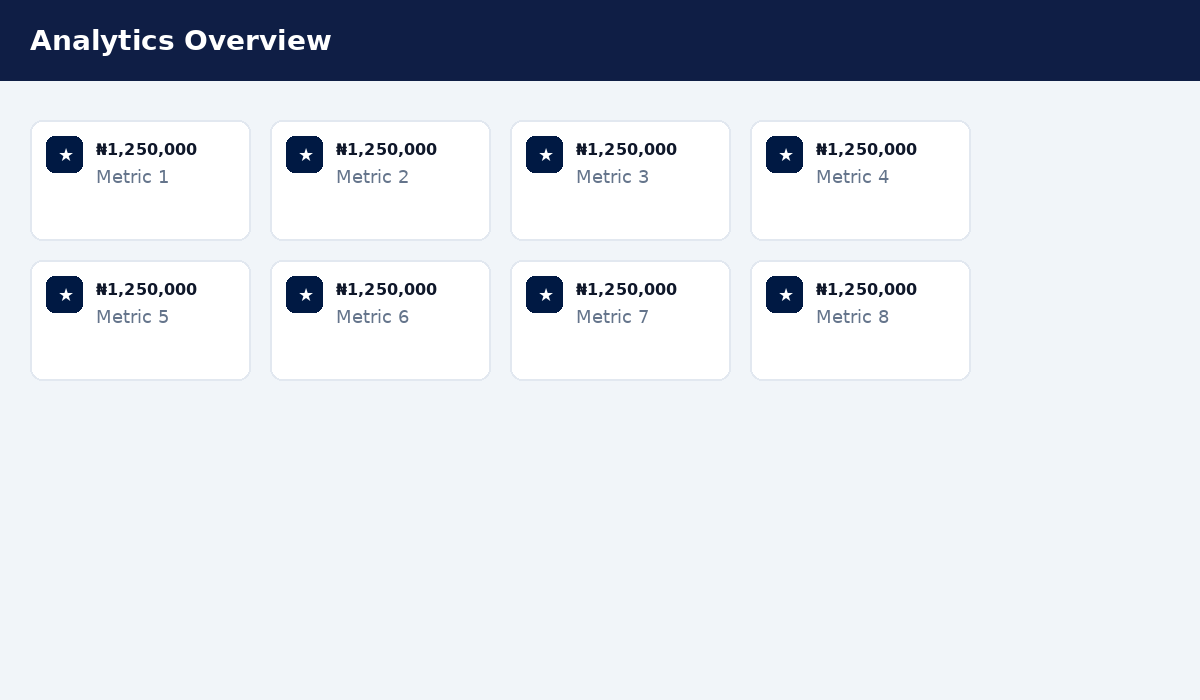
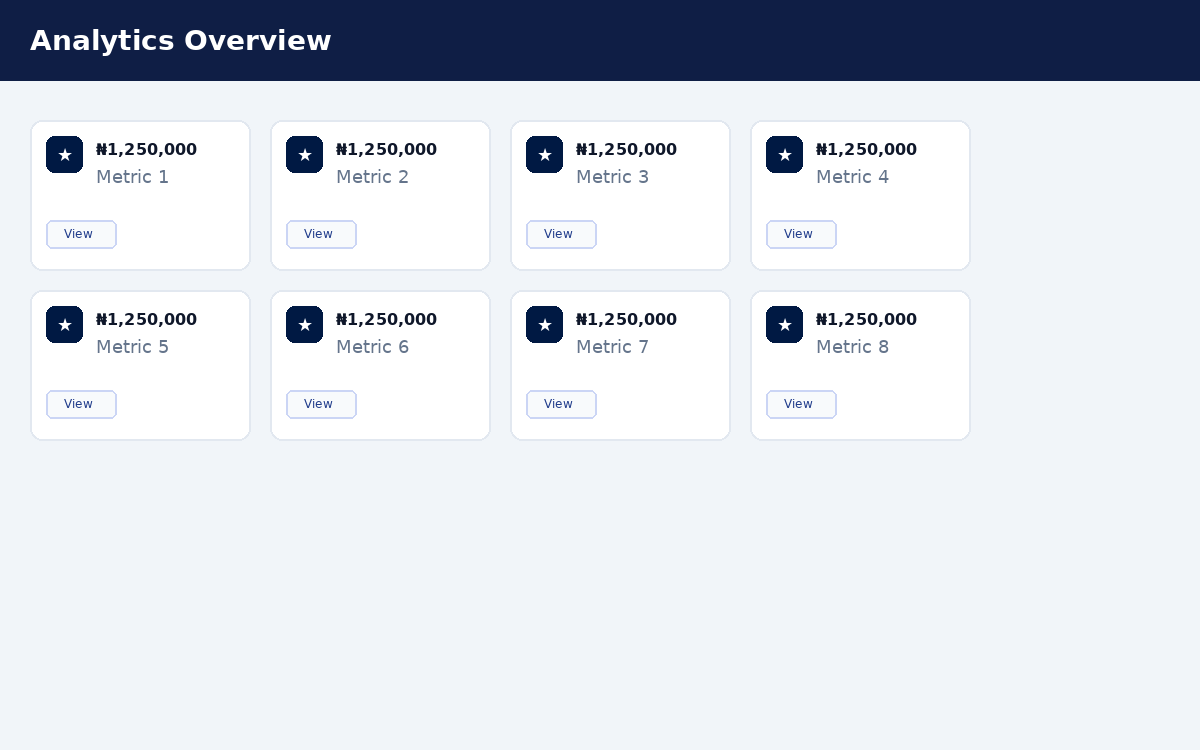
Add analytics card view buttons

diff --git a/templates/pages/analytics.php b/templates/pages/analytics.php
@@ -33,6 +33,26 @@ if (!empty($range['start_display']) && !empty($range['end_display'])) {
     $range_display = $range['end_display'];
 }
 
+$detail_range_args = array();
+if (!empty($range['start_date'])) {
+    $detail_range_args['start'] = $range['start_date'];
+}
+if (!empty($range['end_date'])) {
+    $detail_range_args['end'] = $range['end_date'];
+}
+$detail_date = !empty($range['end_date']) ? $range['end_date'] : (!empty($range['start_date']) ? $range['start_date'] : current_time('Y-m-d'));
+$resolve_page_url = function($slug, $fallback) {
+    $page = get_page_by_path($slug);
+    return $page ? get_permalink($page->ID) : home_url($fallback);
+};
+$order_history_url = add_query_arg($detail_range_args, $resolve_page_url('cfi-order-history', '/order-history/'));
+$transfer_history_url = add_query_arg($detail_range_args, $resolve_page_url('cfi-transfer-history', '/transfer-history/'));
+$expenses_history_url = add_query_arg($detail_range_args, $resolve_page_url('cfi-expenses-history', '/expenses-history/'));
+$cashout_history_url = add_query_arg($detail_range_args, $resolve_page_url('cfi-cash-out-history', '/cash-out-history/'));
+$debtors_history_url = add_query_arg($detail_range_args, $resolve_page_url('cfi-debtors-history', '/debtors-history/'));
+$order_summary_url = add_query_arg(array('date' => $detail_date), $resolve_page_url('cfi-order-product-summary', '/order-product-summary/'));
+$credit_summary_url = add_query_arg(array('date' => $detail_date), $resolve_page_url('cfi-credit-order-summary', '/credit-order-summary/'));
+
 $format_currency = function($value) {
     return '₦' . number_format((float) $value, 2);
 };
@@ -103,6 +123,13 @@ $format_number = function($value) {
         border: 2px solid rgba(0, 25, 67, 0.08);
         box-shadow: 0 6px 18px rgba(0, 25, 67, 0.08);
         text-align: center;
+    }
+    .cfi-analytics-card-actions {
+        margin-top: 0.75rem;
+    }
+    .cfi-analytics-card-actions .cfi-btn {
+        font-size: 0.65rem;
+        padding: 0.35rem 0.65rem;
     }
     .cfi-analytics-icon {
         width: 36px;
@@ -203,31 +230,61 @@ $format_number = function($value) {
                     <div class="cfi-analytics-icon"><i class="fas fa-receipt"></i></div>
                     <div class="cfi-analytics-value" data-analytics="orders.total_orders" data-format="number"><?php echo esc_html($format_number($summary['orders']['total_orders'] ?? 0)); ?></div>
                     <div class="cfi-analytics-label"><?php esc_html_e('Total Orders', 'chinemerem-foods'); ?></div>
+                    <div class="cfi-analytics-card-actions">
+                        <a class="cfi-btn cfi-btn-outline cfi-btn-sm" href="<?php echo esc_url($order_history_url); ?>">
+                            <?php esc_html_e('View', 'chinemerem-foods'); ?>
+                        </a>
+                    </div>
                 </div>
                 <div class="cfi-analytics-card">
                     <div class="cfi-analytics-icon"><i class="fas fa-money-bill-wave"></i></div>
                     <div class="cfi-analytics-value" data-analytics="orders.cash_orders" data-format="number"><?php echo esc_html($format_number($summary['orders']['cash_orders'] ?? 0)); ?></div>
                     <div class="cfi-analytics-label"><?php esc_html_e('Cash Orders', 'chinemerem-foods'); ?></div>
+                    <div class="cfi-analytics-card-actions">
+                        <a class="cfi-btn cfi-btn-outline cfi-btn-sm" href="<?php echo esc_url($order_summary_url); ?>">
+                            <?php esc_html_e('View', 'chinemerem-foods'); ?>
+                        </a>
+                    </div>
                 </div>
                 <div class="cfi-analytics-card">
                     <div class="cfi-analytics-icon"><i class="fas fa-user-clock"></i></div>
                     <div class="cfi-analytics-value" data-analytics="orders.credit_orders" data-format="number"><?php echo esc_html($format_number($summary['orders']['credit_orders'] ?? 0)); ?></div>
                     <div class="cfi-analytics-label"><?php esc_html_e('Credit Orders', 'chinemerem-foods'); ?></div>
+                    <div class="cfi-analytics-card-actions">
+                        <a class="cfi-btn cfi-btn-outline cfi-btn-sm" href="<?php echo esc_url($credit_summary_url); ?>">
+                            <?php esc_html_e('View', 'chinemerem-foods'); ?>
+                        </a>
+                    </div>
                 </div>
                 <div class="cfi-analytics-card">
                     <div class="cfi-analytics-icon"><i class="fas fa-coins"></i></div>
                     <div class="cfi-analytics-value" data-analytics="orders.total_sales" data-format="currency"><?php echo esc_html($format_currency($summary['orders']['total_sales'] ?? 0)); ?></div>
                     <div class="cfi-analytics-label"><?php esc_html_e('Total Sales', 'chinemerem-foods'); ?></div>
+                    <div class="cfi-analytics-card-actions">
+                        <a class="cfi-btn cfi-btn-outline cfi-btn-sm" href="<?php echo esc_url($order_history_url); ?>">
+                            <?php esc_html_e('View', 'chinemerem-foods'); ?>
+                        </a>
+                    </div>
                 </div>
                 <div class="cfi-analytics-card">
                     <div class="cfi-analytics-icon"><i class="fas fa-wallet"></i></div>
                     <div class="cfi-analytics-value" data-analytics="orders.cash_received" data-format="currency"><?php echo esc_html($format_currency($summary['orders']['cash_received'] ?? 0)); ?></div>
                     <div class="cfi-analytics-label"><?php esc_html_e('Cash Received', 'chinemerem-foods'); ?></div>
+                    <div class="cfi-analytics-card-actions">
+                        <a class="cfi-btn cfi-btn-outline cfi-btn-sm" href="<?php echo esc_url($order_history_url); ?>">
+                            <?php esc_html_e('View', 'chinemerem-foods'); ?>
+                        </a>
+                    </div>
                 </div>
                 <div class="cfi-analytics-card">
                     <div class="cfi-analytics-icon"><i class="fas fa-credit-card"></i></div>
                     <div class="cfi-analytics-value" data-analytics="orders.transfer_sales" data-format="currency"><?php echo esc_html($format_currency($summary['orders']['transfer_sales'] ?? 0)); ?></div>
                     <div class="cfi-analytics-label"><?php esc_html_e('Transfer Sales', 'chinemerem-foods'); ?></div>
+                    <div class="cfi-analytics-card-actions">
+                        <a class="cfi-btn cfi-btn-outline cfi-btn-sm" href="<?php echo esc_url($transfer_history_url); ?>">
+                            <?php esc_html_e('View', 'chinemerem-foods'); ?>
+                        </a>
+                    </div>
                 </div>
             </div>
         </div>
@@ -239,31 +296,61 @@ $format_number = function($value) {
                     <div class="cfi-analytics-icon"><i class="fas fa-file-invoice-dollar"></i></div>
                     <div class="cfi-analytics-value" data-analytics="debtors.orders_total" data-format="currency"><?php echo esc_html($format_currency($summary['debtors']['orders_total'] ?? 0)); ?></div>
                     <div class="cfi-analytics-label"><?php esc_html_e('Debtor Orders Value', 'chinemerem-foods'); ?></div>
+                    <div class="cfi-analytics-card-actions">
+                        <a class="cfi-btn cfi-btn-outline cfi-btn-sm" href="<?php echo esc_url($debtors_history_url); ?>">
+                            <?php esc_html_e('View', 'chinemerem-foods'); ?>
+                        </a>
+                    </div>
                 </div>
                 <div class="cfi-analytics-card">
                     <div class="cfi-analytics-icon"><i class="fas fa-list-check"></i></div>
                     <div class="cfi-analytics-value" data-analytics="debtors.orders_count" data-format="number"><?php echo esc_html($format_number($summary['debtors']['orders_count'] ?? 0)); ?></div>
                     <div class="cfi-analytics-label"><?php esc_html_e('Debtor Orders Count', 'chinemerem-foods'); ?></div>
+                    <div class="cfi-analytics-card-actions">
+                        <a class="cfi-btn cfi-btn-outline cfi-btn-sm" href="<?php echo esc_url($credit_summary_url); ?>">
+                            <?php esc_html_e('View', 'chinemerem-foods'); ?>
+                        </a>
+                    </div>
                 </div>
                 <div class="cfi-analytics-card">
                     <div class="cfi-analytics-icon"><i class="fas fa-hand-holding-usd"></i></div>
                     <div class="cfi-analytics-value" data-analytics="debtors.payments_total" data-format="currency"><?php echo esc_html($format_currency($summary['debtors']['payments_total'] ?? 0)); ?></div>
                     <div class="cfi-analytics-label"><?php esc_html_e('Payments Received', 'chinemerem-foods'); ?></div>
+                    <div class="cfi-analytics-card-actions">
+                        <a class="cfi-btn cfi-btn-outline cfi-btn-sm" href="<?php echo esc_url($debtors_history_url); ?>">
+                            <?php esc_html_e('View', 'chinemerem-foods'); ?>
+                        </a>
+                    </div>
                 </div>
                 <div class="cfi-analytics-card">
                     <div class="cfi-analytics-icon"><i class="fas fa-money-bill-wave"></i></div>
                     <div class="cfi-analytics-value" data-analytics="debtors.payments_cash" data-format="currency"><?php echo esc_html($format_currency($summary['debtors']['payments_cash'] ?? 0)); ?></div>
                     <div class="cfi-analytics-label"><?php esc_html_e('Payments Cash', 'chinemerem-foods'); ?></div>
+                    <div class="cfi-analytics-card-actions">
+                        <a class="cfi-btn cfi-btn-outline cfi-btn-sm" href="<?php echo esc_url($debtors_history_url); ?>">
+                            <?php esc_html_e('View', 'chinemerem-foods'); ?>
+                        </a>
+                    </div>
                 </div>
                 <div class="cfi-analytics-card">
                     <div class="cfi-analytics-icon"><i class="fas fa-university"></i></div>
                     <div class="cfi-analytics-value" data-analytics="debtors.payments_transfer" data-format="currency"><?php echo esc_html($format_currency($summary['debtors']['payments_transfer'] ?? 0)); ?></div>
                     <div class="cfi-analytics-label"><?php esc_html_e('Payments Transfer', 'chinemerem-foods'); ?></div>
+                    <div class="cfi-analytics-card-actions">
+                        <a class="cfi-btn cfi-btn-outline cfi-btn-sm" href="<?php echo esc_url($debtors_history_url); ?>">
+                            <?php esc_html_e('View', 'chinemerem-foods'); ?>
+                        </a>
+                    </div>
                 </div>
                 <div class="cfi-analytics-card">
                     <div class="cfi-analytics-icon"><i class="fas fa-house-user"></i></div>
                     <div class="cfi-analytics-value" data-analytics="debtors.payments_home" data-format="currency"><?php echo esc_html($format_currency($summary['debtors']['payments_home'] ?? 0)); ?></div>
                     <div class="cfi-analytics-label"><?php esc_html_e('Home Calculations', 'chinemerem-foods'); ?></div>
+                    <div class="cfi-analytics-card-actions">
+                        <a class="cfi-btn cfi-btn-outline cfi-btn-sm" href="<?php echo esc_url($debtors_history_url); ?>">
+                            <?php esc_html_e('View', 'chinemerem-foods'); ?>
+                        </a>
+                    </div>
                 </div>
             </div>
         </div>
@@ -275,11 +362,21 @@ $format_number = function($value) {
                     <div class="cfi-analytics-icon"><i class="fas fa-receipt"></i></div>
                     <div class="cfi-analytics-value" data-analytics="expenses.total_amount" data-format="currency"><?php echo esc_html($format_currency($summary['expenses']['total_amount'] ?? 0)); ?></div>
                     <div class="cfi-analytics-label"><?php esc_html_e('Total Expenses', 'chinemerem-foods'); ?></div>
+                    <div class="cfi-analytics-card-actions">
+                        <a class="cfi-btn cfi-btn-outline cfi-btn-sm" href="<?php echo esc_url($expenses_history_url); ?>">
+                            <?php esc_html_e('View', 'chinemerem-foods'); ?>
+                        </a>
+                    </div>
                 </div>
                 <div class="cfi-analytics-card">
                     <div class="cfi-analytics-icon"><i class="fas fa-list"></i></div>
                     <div class="cfi-analytics-value" data-analytics="expenses.total_count" data-format="number"><?php echo esc_html($format_number($summary['expenses']['total_count'] ?? 0)); ?></div>
                     <div class="cfi-analytics-label"><?php esc_html_e('Expense Entries', 'chinemerem-foods'); ?></div>
+                    <div class="cfi-analytics-card-actions">
+                        <a class="cfi-btn cfi-btn-outline cfi-btn-sm" href="<?php echo esc_url($expenses_history_url); ?>">
+                            <?php esc_html_e('View', 'chinemerem-foods'); ?>
+                        </a>
+                    </div>
                 </div>
             </div>
         </div>
@@ -291,26 +388,51 @@ $format_number = function($value) {
                     <div class="cfi-analytics-icon"><i class="fas fa-right-left"></i></div>
                     <div class="cfi-analytics-value" data-analytics="transfers.total_amount" data-format="currency"><?php echo esc_html($format_currency($summary['transfers']['total_amount'] ?? 0)); ?></div>
                     <div class="cfi-analytics-label"><?php esc_html_e('Total Transfers', 'chinemerem-foods'); ?></div>
+                    <div class="cfi-analytics-card-actions">
+                        <a class="cfi-btn cfi-btn-outline cfi-btn-sm" href="<?php echo esc_url($transfer_history_url); ?>">
+                            <?php esc_html_e('View', 'chinemerem-foods'); ?>
+                        </a>
+                    </div>
                 </div>
                 <div class="cfi-analytics-card">
                     <div class="cfi-analytics-icon"><i class="fas fa-cart-shopping"></i></div>
                     <div class="cfi-analytics-value" data-analytics="transfers.orders_amount" data-format="currency"><?php echo esc_html($format_currency($summary['transfers']['orders_amount'] ?? 0)); ?></div>
                     <div class="cfi-analytics-label"><?php esc_html_e('Order Transfers', 'chinemerem-foods'); ?></div>
+                    <div class="cfi-analytics-card-actions">
+                        <a class="cfi-btn cfi-btn-outline cfi-btn-sm" href="<?php echo esc_url($order_history_url); ?>">
+                            <?php esc_html_e('View', 'chinemerem-foods'); ?>
+                        </a>
+                    </div>
                 </div>
                 <div class="cfi-analytics-card">
                     <div class="cfi-analytics-icon"><i class="fas fa-user-clock"></i></div>
                     <div class="cfi-analytics-value" data-analytics="transfers.debtors_amount" data-format="currency"><?php echo esc_html($format_currency($summary['transfers']['debtors_amount'] ?? 0)); ?></div>
                     <div class="cfi-analytics-label"><?php esc_html_e('Debtor Transfers', 'chinemerem-foods'); ?></div>
+                    <div class="cfi-analytics-card-actions">
+                        <a class="cfi-btn cfi-btn-outline cfi-btn-sm" href="<?php echo esc_url($debtors_history_url); ?>">
+                            <?php esc_html_e('View', 'chinemerem-foods'); ?>
+                        </a>
+                    </div>
                 </div>
                 <div class="cfi-analytics-card">
                     <div class="cfi-analytics-icon"><i class="fas fa-piggy-bank"></i></div>
                     <div class="cfi-analytics-value" data-analytics="transfers.cashout_amount" data-format="currency"><?php echo esc_html($format_currency($summary['transfers']['cashout_amount'] ?? 0)); ?></div>
                     <div class="cfi-analytics-label"><?php esc_html_e('Cash Out Transfers', 'chinemerem-foods'); ?></div>
+                    <div class="cfi-analytics-card-actions">
+                        <a class="cfi-btn cfi-btn-outline cfi-btn-sm" href="<?php echo esc_url($cashout_history_url); ?>">
+                            <?php esc_html_e('View', 'chinemerem-foods'); ?>
+                        </a>
+                    </div>
                 </div>
                 <div class="cfi-analytics-card">
                     <div class="cfi-analytics-icon"><i class="fas fa-clipboard-check"></i></div>
                     <div class="cfi-analytics-value" data-analytics="transfers.total_count" data-format="number"><?php echo esc_html($format_number($summary['transfers']['total_count'] ?? 0)); ?></div>
                     <div class="cfi-analytics-label"><?php esc_html_e('Transfer Entries', 'chinemerem-foods'); ?></div>
+                    <div class="cfi-analytics-card-actions">
+                        <a class="cfi-btn cfi-btn-outline cfi-btn-sm" href="<?php echo esc_url($transfer_history_url); ?>">
+                            <?php esc_html_e('View', 'chinemerem-foods'); ?>
+                        </a>
+                    </div>
                 </div>
             </div>
         </div>
@@ -322,11 +444,21 @@ $format_number = function($value) {
                     <div class="cfi-analytics-icon"><i class="fas fa-building-columns"></i></div>
                     <div class="cfi-analytics-value" data-analytics="cashout.total_amount" data-format="currency"><?php echo esc_html($format_currency($summary['cashout']['total_amount'] ?? 0)); ?></div>
                     <div class="cfi-analytics-label"><?php esc_html_e('Total Cash Out', 'chinemerem-foods'); ?></div>
+                    <div class="cfi-analytics-card-actions">
+                        <a class="cfi-btn cfi-btn-outline cfi-btn-sm" href="<?php echo esc_url($cashout_history_url); ?>">
+                            <?php esc_html_e('View', 'chinemerem-foods'); ?>
+                        </a>
+                    </div>
                 </div>
                 <div class="cfi-analytics-card">
                     <div class="cfi-analytics-icon"><i class="fas fa-list-ol"></i></div>
                     <div class="cfi-analytics-value" data-analytics="cashout.total_count" data-format="number"><?php echo esc_html($format_number($summary['cashout']['total_count'] ?? 0)); ?></div>
                     <div class="cfi-analytics-label"><?php esc_html_e('Cash Out Entries', 'chinemerem-foods'); ?></div>
+                    <div class="cfi-analytics-card-actions">
+                        <a class="cfi-btn cfi-btn-outline cfi-btn-sm" href="<?php echo esc_url($cashout_history_url); ?>">
+                            <?php esc_html_e('View', 'chinemerem-foods'); ?>
+                        </a>
+                    </div>
                 </div>
             </div>
         </div>
